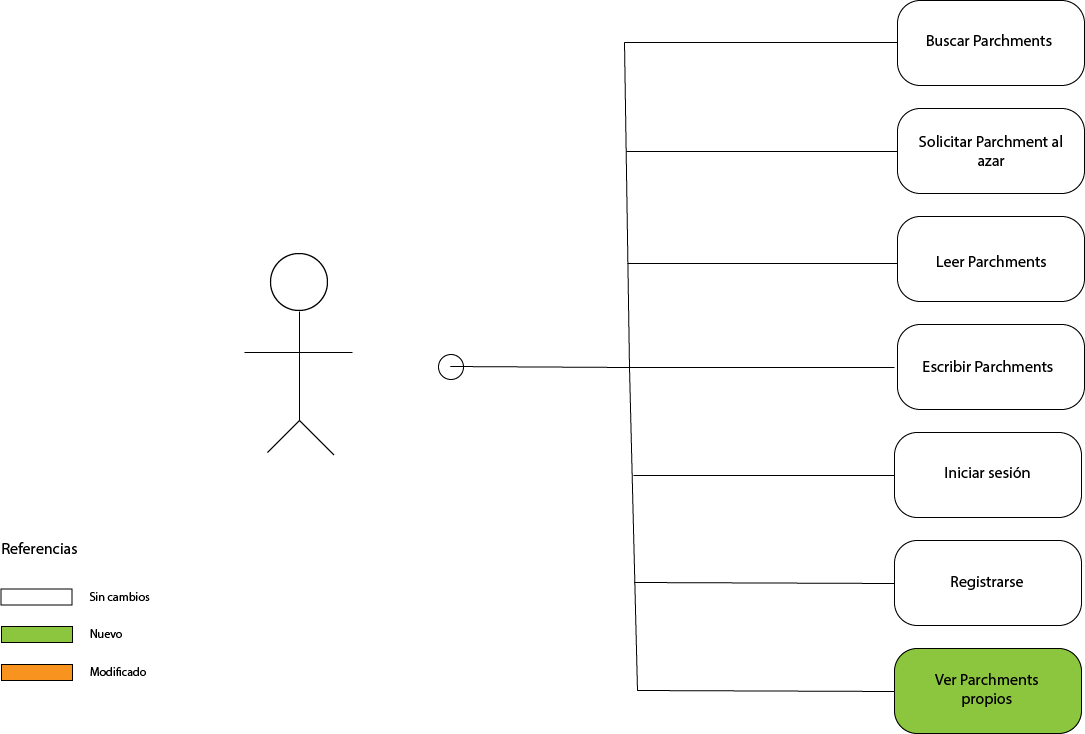
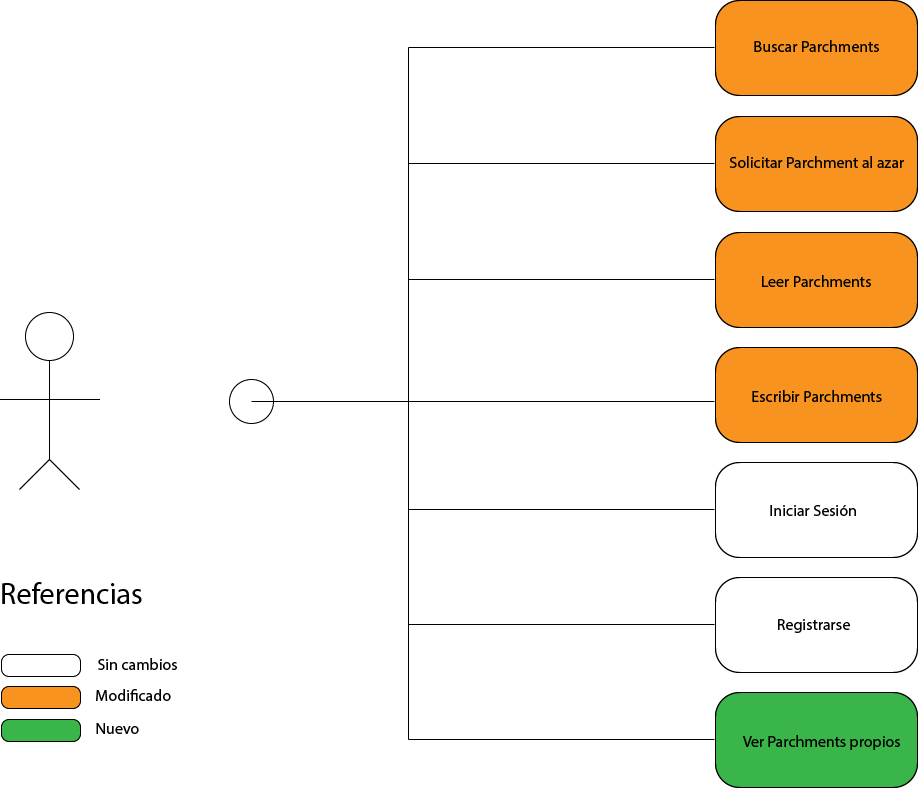
arreglando cambios pedidos en entrega 3

diff --git a/Entrega 3/README.md b/Entrega 3/README.md
@@ -11,17 +11,36 @@ Parchments es una aplicación que permite a un grupo de usuaries escribir una hi
 
 La pantalla principal incluye una barra de búsqueda en la que una persona puede buscar un Parchment por su título y accederlo directamente, sin importar si este Parchment es núcleo o una continuación.
 
+Esta búsqueda ahora es "fuzzy", lo que significa que una persona puede obtener sugerencias de acuerdo a su término de búsqueda.
+
 ### • Una persona puede solicitar un Parchment al azar
 
 Una persona puede presionar un botón el cual le muestra inmediatamente un Parchment núcleo al azar para comenzar a leer.
+
+Se mejoró la accesibilidad a esta opción: ahora puede accederse desde el botón de la barra de navegación inferior o desde el drawer lateral en Parchment Detail o en Continuations.
 
 ### • Una persona puede leer Parchments
 
 La pantalla principal de la aplicación ofrece todos los Parchments núcleo, de los cuales surgen múltiples continuaciones. Una persona puede leer todos estos Parchments; y al llegar al final de un Parchment, la persona dispone de un botón que puede tocar para seguir leyendo. La aplicación entonces carga las continuaciones de primer nivel del último Parchment leído.
 
+Cada uno de estos Parchments presenta breadcrumbs: el camino desde el Parchment núcleo hasta el Parchment que se está leyendo actualmente. Esto permite que la persona fácilmente vuelva hacia un Parchment leido anteriormente.
+
+Los Parchments ahora también tienen una sinopsis, la cual apunta a resumir la trama en pocas oraciones. Esta sinopsis puede accederse manteniendo apretada una Parchment Card tanto en Home como en el menú de Continuations.
+
+Como último detalle, tanto la Home como la pantalla de Continuations ahora es paginada; es decir, solo se trae un cierto número de Parchments cuando la persona entra a esta pantalla por primera vez, y a medida que va scrolleando se traen los Parchments subsecuentes.
+
 ### • Una persona puede escribir Parchments
 
 Una persona puede acceder a una pantalla de creación que le permite escribir un Parchment núcleo, a partir del cual pueden surgir múltiples continuaciones. También, al llegar al final de un Parchment, la persona dispone de un botón que puede tocar para escribir una continuación. La aplicación entonces carga una pantalla de escritura. Cuando la persona finaliza, este Parchment se guarda y se enlaza como continuación del Parchment anterior.
+
+Ahora se puede escribir la sinopsis de un Parchment en esta pantalla.
+
+Además, se agregaron las siguientes validaciones:
+
+- El título tiene una limitación de 50 caracteres
+- No se puede crear un Parchment con alguno de los tres campos (título, sinopsis, contenido) vacío.
+
+Se agregó también un cartel de confirmación que se muestra a la persona si intenta abandonar la pantalla de creación luego de haber empezado a escribir.
 
 ### • Una persona puede iniciar sesión
 
